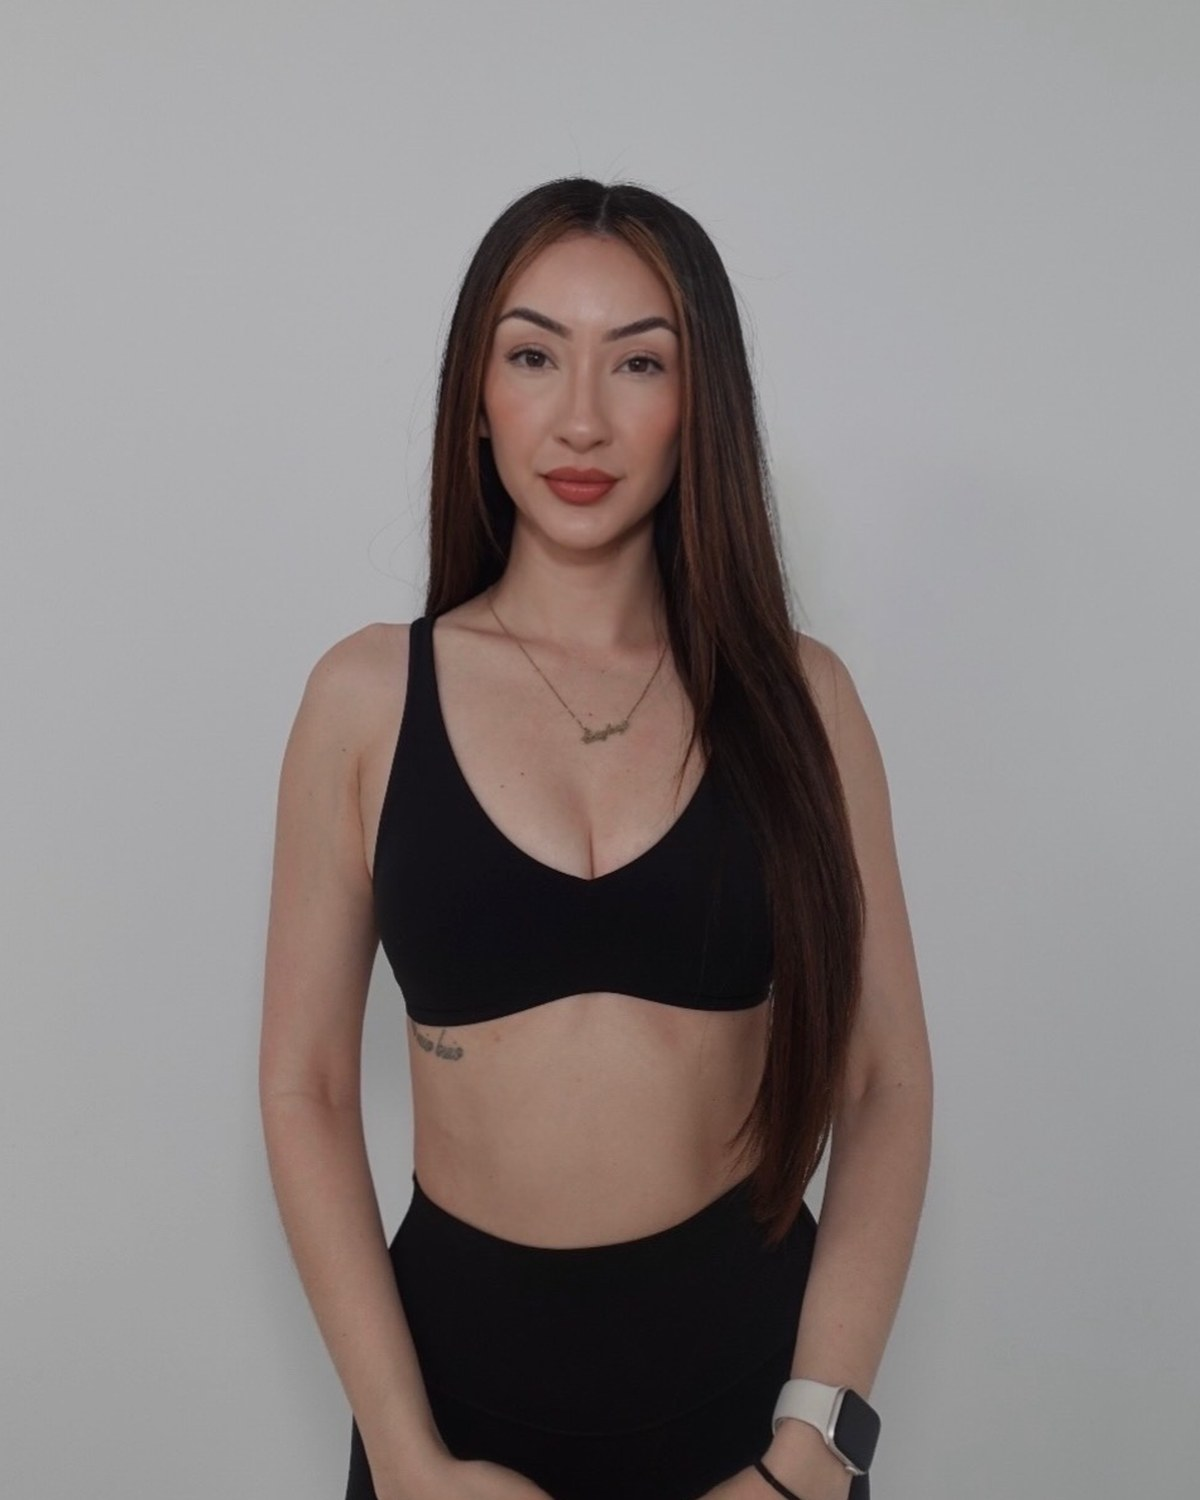
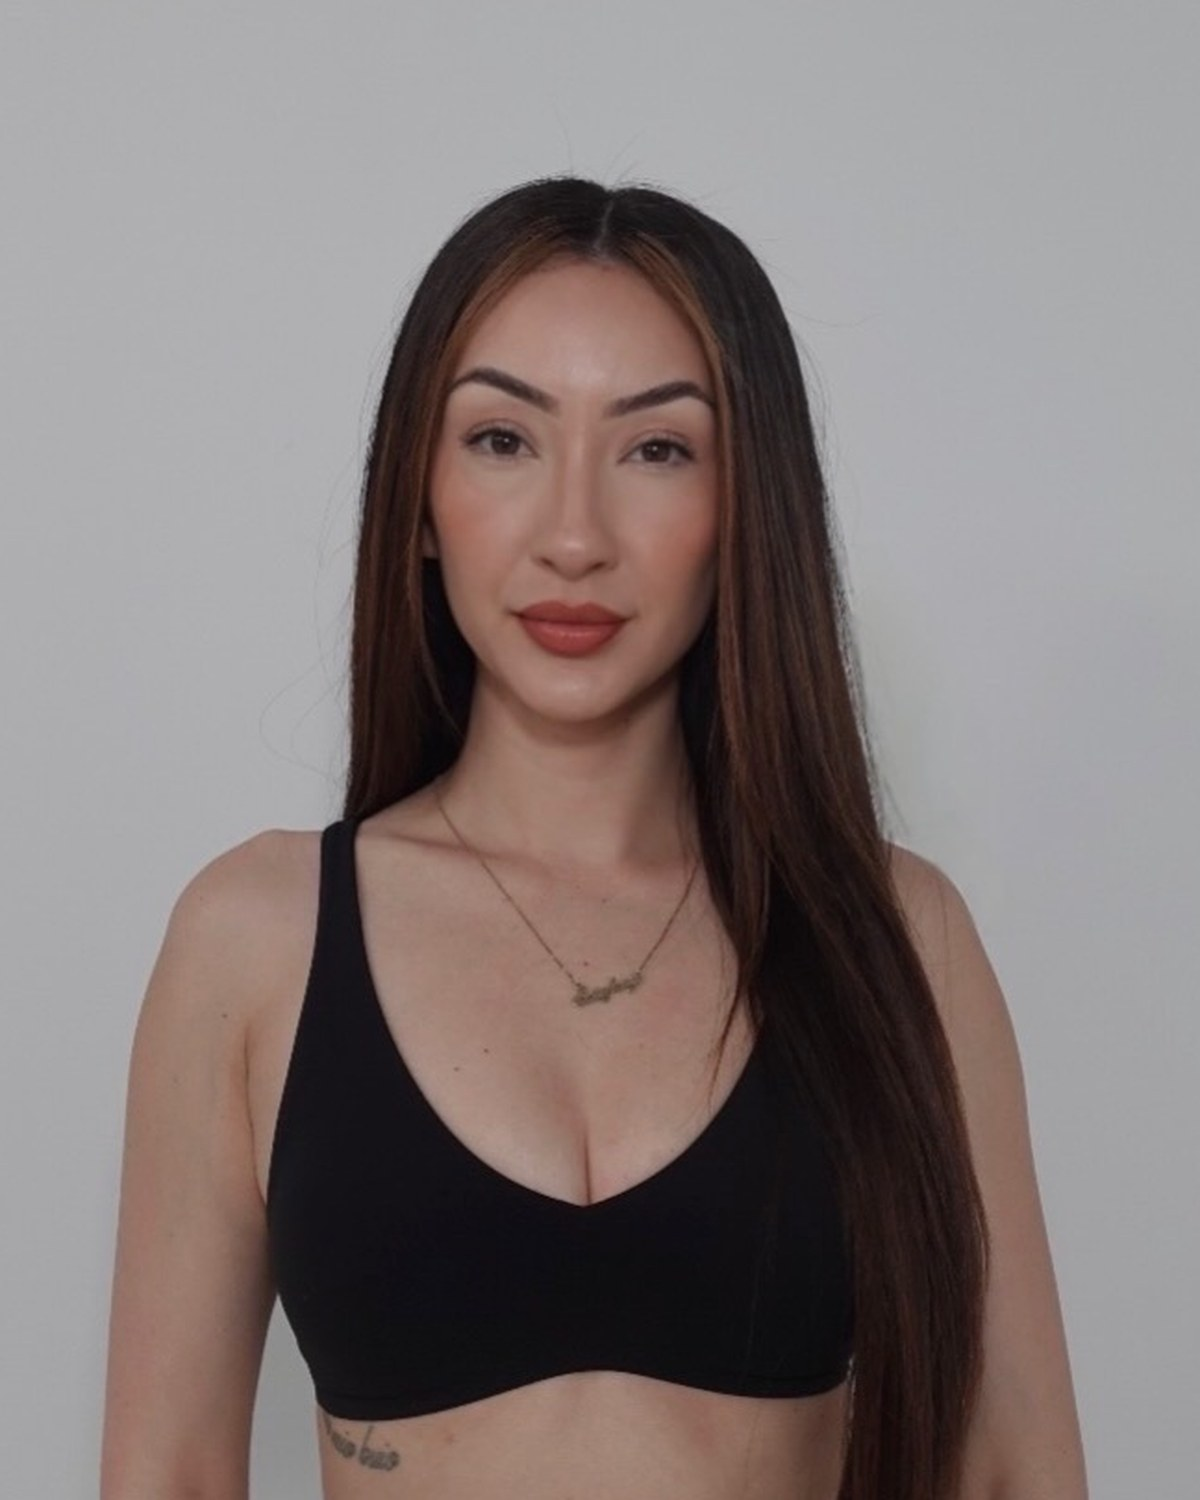
Add Tiffany's portrait and match the pair
Crops both portraits so the faces sit at a similar scale and neutralizes
the warm cast behind Tiffany so the two backdrops read as a set.

diff --git a/src/components/Instructors.jsx b/src/components/Instructors.jsx
@@ -1,6 +1,7 @@
 import Reveal from './Reveal'
 import { EmberMark } from './Logo'
 import estefanyPhoto from '../assets/estefany.jpg'
+import tiffanyPhoto from '../assets/tiffany.jpg'
 
 const instructors = [
   {
@@ -18,6 +19,7 @@ const instructors = [
   {
     name: 'Tiffany',
     initial: 'T',
+    photo: tiffanyPhoto,
     role: 'Co-Founder · Lagree Instructor',
     quote: 'The second in a hold when it feels like you can’t stay there — and then you do.',
     paragraphs: [
